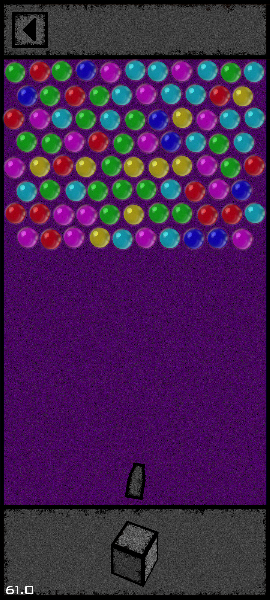
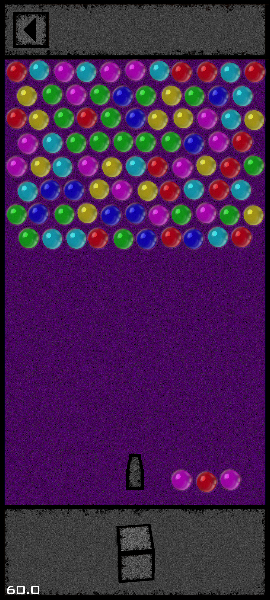
added reflecting laser from wall to gun aiming

diff --git a/core/src/main/java/com/tbane/bubble_shooter/Game/Gun.java b/core/src/main/java/com/tbane/bubble_shooter/Game/Gun.java
@@ -7,16 +7,41 @@ import com.tbane.bubble_shooter.AssetsManager;
 import com.tbane.bubble_shooter.MyInput.MyInput;
 import com.tbane.bubble_shooter.Renderer;
 
+import java.util.ArrayList;
+import java.util.Vector;
+
 public class Gun {
 
     private Vector2 _position;
     private float _angleInDegrees;
+    private ArrayList<Vector2> _laserPoints;
+    private ArrayList<Bubble> _ammo;
+
 
     public Gun(){
         _position = new Vector2(Renderer.VIRTUAL_WIDTH/2.f, 320);
         _angleInDegrees = 0;
+
+        _laserPoints = new ArrayList<>();
+
+        _ammo = new ArrayList<>();
+        loadAmmo();
+        loadAmmo();
+        loadAmmo();
     }
 
+    private void loadAmmo(){
+
+        int color = (int)(Math.random()*6);
+        _ammo.add(new Bubble(-1,-1, color));
+
+
+        for(int i=0;i<_ammo.size();i++){
+            float x = Bubble._radius*2.0f*i;
+            _ammo.get(i).setPosition(new Vector2(_position.x + 128 + x,_position.y));
+
+        }
+    }
     private Vector2 getGunTipPosition() {
         float offset = 96-24; // od origin do końca lufy
         float rad = (float)Math.toRadians(_angleInDegrees);
@@ -24,6 +49,86 @@ public class Gun {
             _position.x - offset * (float)Math.sin(rad),  // cos dla X
             _position.y + offset * (float)Math.cos(rad)   // sin dla Y
         );
+    }
+
+    private boolean pointInBubble(Vector2 point){
+        for(Bubble bubble : Game._bubbles){
+            float x = bubble.getPosition().x - point.x;
+            float y = bubble.getPosition().y - point.y;
+
+            if( x*x + y*y < 4*Bubble._radius*Bubble._radius){
+                return true;
+            }
+        }
+
+        return false;
+    }
+    private void generateLaserPoints() {
+
+        _laserPoints.clear();
+
+        Vector2 point = getGunTipPosition();
+        float angle = _angleInDegrees;
+
+        float distBetweenPoints = 48f;
+        float traveled = 0f;
+
+        float leftWall  = 10 + Bubble._radius;
+        float rightWall = Renderer.VIRTUAL_WIDTH - 10 - Bubble._radius;
+
+        while (true) {
+
+            float dirX = -(float)Math.sin(Math.toRadians(angle));
+            float dirY =  (float)Math.cos(Math.toRadians(angle));
+
+            float tX = Float.MAX_VALUE;
+            boolean reflectX = false;
+            if (dirX < 0) { tX = (leftWall - point.x) / dirX; reflectX = true; }
+            else if (dirX > 0) { tX = (rightWall - point.x) / dirX; reflectX = true; }
+
+            float tY = Float.MAX_VALUE;
+            if (dirY > 0) tY = (Renderer.VIRTUAL_HEIGHT - 160 - point.y) / dirY;
+
+            float tMax = Math.min(tX, tY);
+            boolean reflect = (tMax == tX) && reflectX;
+
+            Vector2 next = new Vector2(point.x + dirX * tMax, point.y + dirY * tMax);
+
+            float segmentLength = point.dst(next);
+            float remaining = distBetweenPoints - traveled;
+
+            while (segmentLength > 0f) {
+
+                if (segmentLength >= remaining) {
+
+                    float ratio = remaining / segmentLength;
+                    float px = point.x + (next.x - point.x) * ratio;
+                    float py = point.y + (next.y - point.y) * ratio;
+
+                    if (pointInBubble(new Vector2(px, py))) {
+                        return;
+                    }
+
+                    _laserPoints.add(new Vector2(px, py));
+
+                    point = new Vector2(px, py);
+                    segmentLength = point.dst(next);
+                    remaining = distBetweenPoints;
+
+                } else {
+                    traveled = remaining - segmentLength;
+                    point = next;
+                    break;
+                }
+            }
+
+            if (reflect) {
+                angle = 360f - angle;
+            }
+
+            if (point.y >= Renderer.VIRTUAL_HEIGHT - 160)
+                break;
+        }
     }
 
     public void handleEvents() {
@@ -48,15 +153,20 @@ public class Gun {
             float angle = 75;
             _angleInDegrees = Math.max(-angle, Math.min(angle, _angleInDegrees));
 
+            generateLaserPoints();
 
         }
 
         if(MyInput.processor.isTouchUp()){
 
-            Bubble bubble = new Bubble(-1,-1, -1);
             //Game._bubbles.add(bubble);
-            ShootedBubble mbubble = new ShootedBubble(bubble, getGunTipPosition(), _angleInDegrees);
+            ShootedBubble mbubble = new ShootedBubble(_ammo.get(0), getGunTipPosition(), _angleInDegrees);
+            _ammo.remove(0);
             Game._shootedBubbles.add(mbubble);
+
+            loadAmmo();
+
+            _laserPoints.clear();
         }
     }
 
@@ -64,7 +174,29 @@ public class Gun {
 
     }
 
+    public void drawColorOfAmmo(){
+        for(Bubble ammo : _ammo)
+            ammo.drawColor();
+    }
+
+    public void drawBubbleOfAmmo() {
+        for(Bubble ammo : _ammo)
+            ammo.drawBubble();
+    }
+
     public void draw(){
+
+        Texture laserPointTexture = AssetsManager.getTexture("tex/laser.png");
+        if(laserPointTexture != null){
+            for(Vector2 point : _laserPoints){
+                Sprite laser = new Sprite(laserPointTexture);
+                laser.setOriginCenter();
+                laser.setScale(0.25f);
+                laser.setCenter(point.x, point.y);
+                laser.draw(Renderer.spriteBatch);
+            }
+        }
+
         Texture gunTexture = AssetsManager.getTexture("tex/gun.png");
         if(gunTexture != null){
             Sprite gun = new Sprite(gunTexture);
@@ -73,5 +205,8 @@ public class Gun {
             gun.setPosition(_position.x - gun.getOriginX(), _position.y - gun.getOriginY());
             gun.draw(Renderer.spriteBatch);
         }
+
+
+
     }
 }

diff --git a/core/src/main/java/com/tbane/bubble_shooter/AssetsManager.java b/core/src/main/java/com/tbane/bubble_shooter/AssetsManager.java
@@ -8,11 +8,8 @@ import com.badlogic.gdx.graphics.g3d.loader.ObjLoader;
 
 public class AssetsManager {
     public static final AssetManager manager = new AssetManager();
-    public static boolean success;
     static {
         manager.setLoader(Model.class, ".obj", new ObjLoader(new InternalFileHandleResolver()));
-
-        success = true;
 
         loadTexture("tex/mainBoard.png");
         loadTexture("tex/panel.png");
@@ -40,14 +37,8 @@ public class AssetsManager {
         loadTexture("tex/gameBoard.png");
         loadTexture("tex/bubble.png");
         loadTexture("tex/gun.png");
+        loadTexture("tex/laser.png");
         manager.finishLoading();
-
-        if(success){
-            System.out.println("success loaded all textures");
-        }else{
-            System.out.println("failed loaded all textures");
-            System.out.println("exit");
-        }
     }
 
     public static void loadTexture(String path) {

diff --git a/core/src/main/java/com/tbane/bubble_shooter/Game/Game.java b/core/src/main/java/com/tbane/bubble_shooter/Game/Game.java
@@ -16,6 +16,7 @@ import java.util.ArrayList;
 import java.util.HashSet;
 import java.util.LinkedList;
 import java.util.Queue;
+import java.util.Vector;
 
 public class Game extends Layout {
 
@@ -304,6 +305,8 @@ public class Game extends Layout {
         for(AnimatedPositioningBubble bubble : _animatedPositioningBubbles)
             bubble._bubble.drawColor();
 
+        _gun.drawColorOfAmmo();
+
         Renderer.shapeRenderer.end();
 
         // draw bubbles
@@ -316,6 +319,8 @@ public class Game extends Layout {
 
         for(AnimatedPositioningBubble bubble : _animatedPositioningBubbles)
             bubble._bubble.drawBubble();
+
+        _gun.drawBubbleOfAmmo();
 
         _gun.draw();
 

diff --git a/README.md b/README.md
@@ -15,6 +15,7 @@
 ![Zrzut ekranu](screenshots/02.png)
 ![Zrzut ekranu](screenshots/03.png)
 ![Zrzut ekranu](screenshots/04.png)
+![Zrzut ekranu](screenshots/05.png)
 
 
 ## Instalacja
